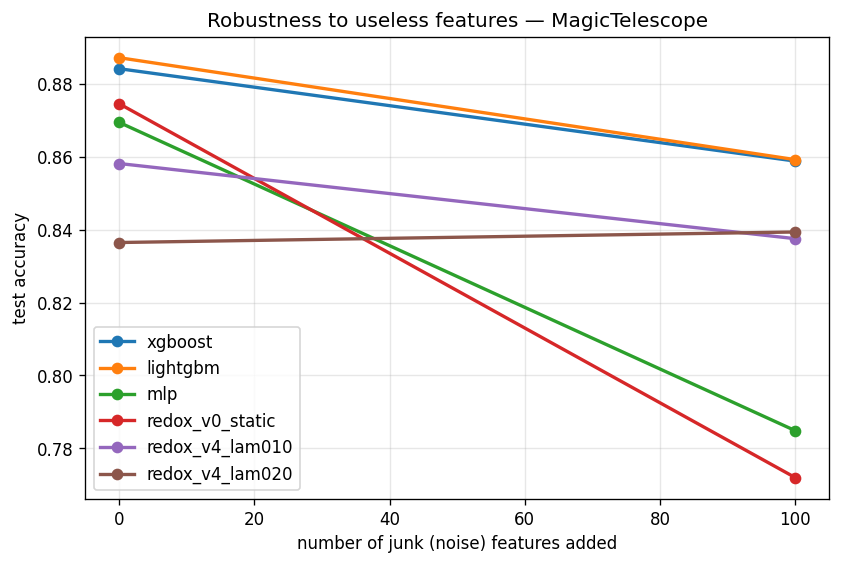
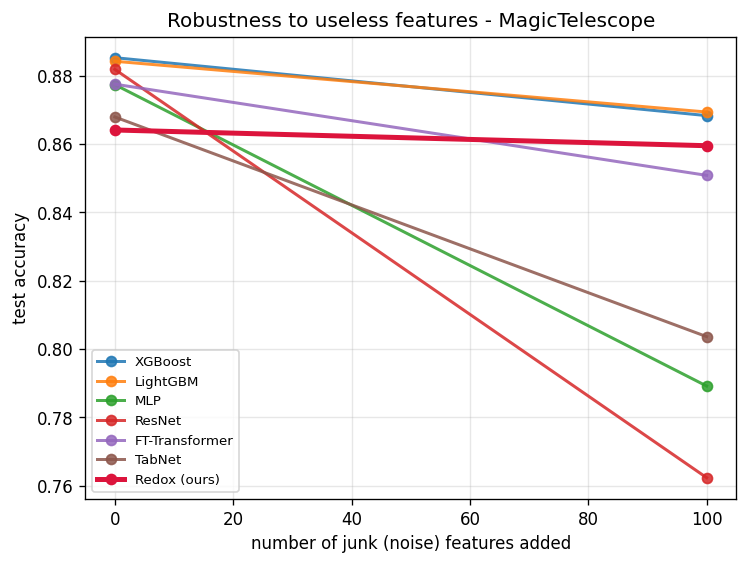
Regenerate figures: clean model labels in robustness plot to match Table 1; fix rotation figure title overlap

diff --git a/experiments/v0/make_figures4.py b/experiments/v0/make_figures4.py
@@ -27,8 +27,7 @@ gy = -gx
 ax[1].step(gx, gy, where="mid", color="green", lw=2.5, label="tree: staircase of MANY cuts")
 ax[1].set_title("Rotated axes (columns scrambled):\ntree now needs many cuts")
 ax[1].set_xlabel("mix of features"); ax[1].legend(fontsize=8)
-fig.suptitle("Rotation invariance: trees love axis-aligned cuts; scrambling the axes hurts them. "
-             "Nets don't care -> nets throw away the axis structure.", fontsize=10)
+fig.tight_layout()
 plt.savefig("figures/rotation.png", dpi=120, bbox_inches="tight")
 plt.close()
 